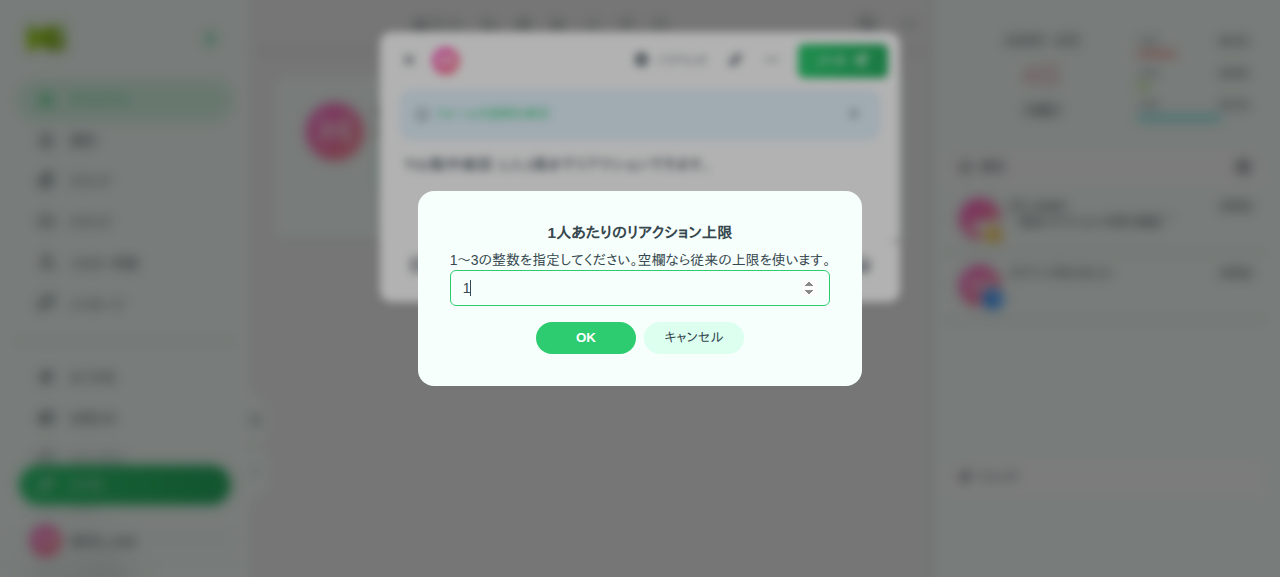
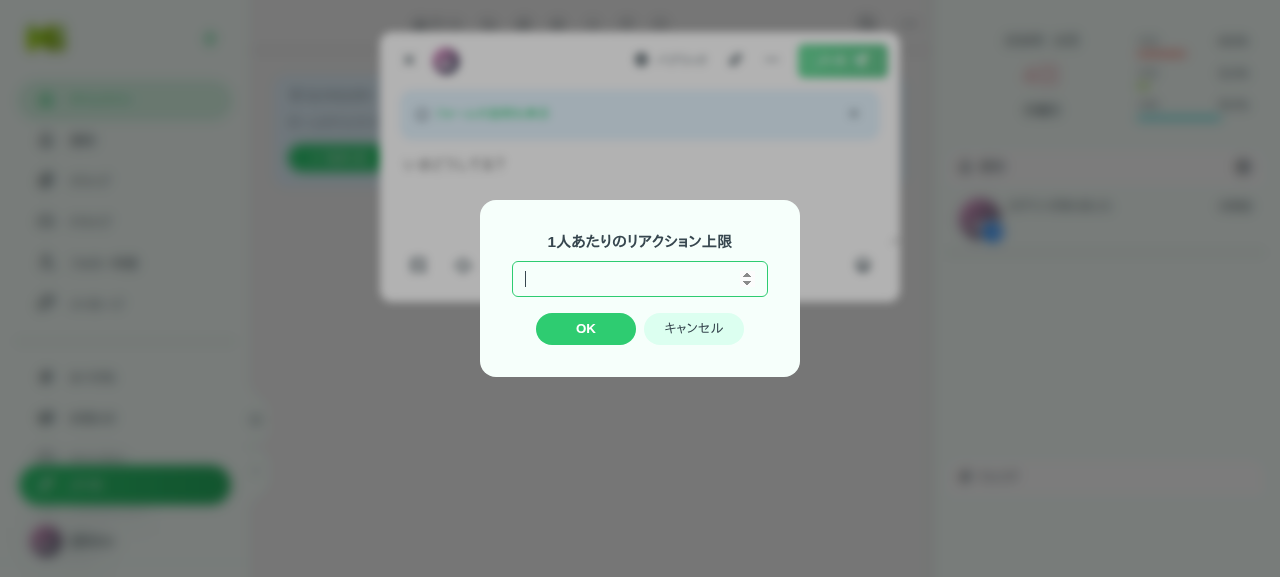
fix: リアクション上限の説明を削除しパレット登録を維持する

diff --git a/packages/misskey-js/src/autogen/apiClientJSDoc.ts b/packages/misskey-js/src/autogen/apiClientJSDoc.ts
@@ -1834,7 +1834,7 @@ declare module '../api.js' {
 
     /**
      * No description provided.
-     * 
+     *
      * **Credential required**: *Yes* / **Permission**: *write:channels*
      */
     request<E extends 'channels/follow-requests/approve', P extends Endpoints[E]['req']>(
@@ -1845,7 +1845,7 @@ declare module '../api.js' {
 
     /**
      * No description provided.
-     * 
+     *
      * **Credential required**: *Yes* / **Permission**: *read:channels*
      */
     request<E extends 'channels/follow-requests/list', P extends Endpoints[E]['req']>(
@@ -1856,7 +1856,7 @@ declare module '../api.js' {
 
     /**
      * No description provided.
-     * 
+     *
      * **Credential required**: *Yes* / **Permission**: *write:channels*
      */
     request<E extends 'channels/follow-requests/reject', P extends Endpoints[E]['req']>(
@@ -1878,7 +1878,7 @@ declare module '../api.js' {
 
     /**
      * No description provided.
-     * 
+     *
      * **Credential required**: *Yes* / **Permission**: *read:channels*
      */
     request<E extends 'channels/followers', P extends Endpoints[E]['req']>(
@@ -1889,7 +1889,7 @@ declare module '../api.js' {
 
     /**
      * No description provided.
-     * 
+     *
      * **Credential required**: *Yes* / **Permission**: *write:channels*
      */
     request<E extends 'channels/followers/remove', P extends Endpoints[E]['req']>(

diff --git a/packages/frontend/src/components/MkReactionsViewer.reaction.vue b/packages/frontend/src/components/MkReactionsViewer.reaction.vue
@@ -64,14 +64,17 @@ const buttonEl = useTemplateRef('buttonEl');
 
 const emojiName = computed(() => props.reaction.replace(/:/g, '').replace(/@\./, ''));
 
-const canToggle = computed(() => {
-	if ($i != null && !(props.myReactions ?? []).includes(props.reaction) && (props.myReactions ?? []).length >= getNoteReactionLimit(props, $i.policies.reactionLimit)) return false;
+const canUseEmoji = computed(() => {
 	const emoji = customEmojisMap.get(emojiName.value) ?? getUnicodeEmojiOrNull(props.reaction);
 
 	// TODO
 	//return !props.reaction.match(/@\w/) && $i && emoji && checkReactionPermissions($i, props.note, emoji);
 	return props.reaction.match(/@\w/) == null && $i != null && emoji != null;
 });
+const canToggle = computed(() => canUseEmoji.value && (
+	(props.myReactions ?? []).includes(props.reaction) ||
+	(props.myReactions ?? []).length < getNoteReactionLimit(props, $i!.policies.reactionLimit)
+));
 const canGetInfo = computed(() => !props.reaction.match(/@\w/) && props.reaction.includes(':'));
 const isLocalCustomEmoji = props.reaction[0] === ':' && props.reaction.includes('@.');
 
@@ -188,7 +191,7 @@ async function menu(ev: PointerEvent) {
 		});
 	}
 
-	if (canToggle.value) {
+	if (canUseEmoji.value) {
 		menuItems.push({
 			text: i18n.ts.addToEmojiPalette,
 			icon: 'ti ti-palette',

diff --git a/packages/i18n/src/autogen/locale.ts b/packages/i18n/src/autogen/locale.ts
@@ -4601,10 +4601,6 @@ export interface Locale extends ILocale {
      */
     "noteReactionLimit": string;
     /**
-     * 1〜{max}の整数を指定してください。空欄なら従来の上限を使います。
-     */
-    "noteReactionLimitDescription": ParameterizedString<"max">;
-    /**
      * 1〜{max}の整数を指定してください。
      */
     "noteReactionLimitInvalid": ParameterizedString<"max">;

diff --git a/packages/frontend/src/components/MkPostForm.vue b/packages/frontend/src/components/MkPostForm.vue
@@ -637,7 +637,6 @@ async function setReactionLimit() {
 	const max = (postAccount.value ?? $i).policies.reactionLimit;
 	const result = await os.inputNumber({
 		title: i18n.ts.noteReactionLimit,
-		text: i18n.tsx.noteReactionLimitDescription({ max }),
 		default: reactionLimit.value,
 	});
 	if (result.canceled) return;
